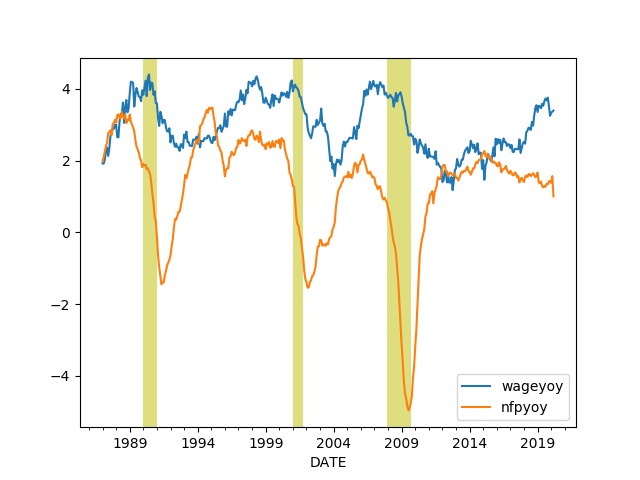
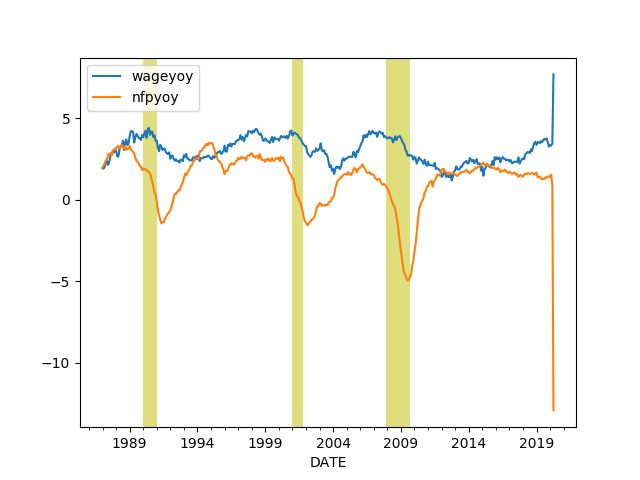
-

diff --git a/en/2019/05/stats.md b/en/2019/05/stats.md
@@ -145,10 +145,7 @@ DATE
 2020-03-01  1.539327
 ```
 
-
 ## Wages and Unemployment
-
-<a name="unemp"></a>
 
 ```python
 import pandas as pd, datetime
@@ -171,15 +168,15 @@ plt.savefig('nfp.png')
 ```
 
 ```text
-            PAYEMS    nfpyoy
-DATE                        
-2019-09-01  151368  1.352546
-2019-10-01  151553  1.340029
-2019-11-01  151814  1.423675
-2019-12-01  151998  1.423281
-2020-01-01  152212  1.384097
-2020-02-01  152487  1.566590
-2020-03-01  151786  1.000785
+            PAYEMS     nfpyoy
+DATE                         
+2019-10-01  151553   1.340029
+2019-11-01  151814   1.423675
+2019-12-01  151998   1.423281
+2020-01-01  152212   1.384097
+2020-02-01  152442   1.536617
+2020-03-01  151572   0.858386
+2020-04-01  131072 -12.904340
 ```
 
 ![](nfp.png)
@@ -191,34 +188,18 @@ from pandas_datareader import data
 
 start=datetime.datetime(1950, 1, 1)
 end=datetime.datetime(2019, 11, 1)
-cols = ['ECIWAG','CIVPART']
+cols = ['ECIWAG']
 df3 = data.DataReader(cols, 'fred', start, end)
 df3 = df3.dropna()
 df3['ECIWAG2'] = df3.shift(4).ECIWAG
 df3['wagegrowth'] = (df3.ECIWAG-df3.ECIWAG2) / df3.ECIWAG2 * 100.
 df3['unempl'] = 100.0 - df3.CIVPART
-print (df3['wagegrowth'].tail(7))
-plt.figure(figsize=(14, 5))
-plt.subplot(121)
-df3['wagegrowth'].plot(title='Wave Growth')
-plt.subplot(122)
-df3['unempl'].plot(title='Unemployment') 
-plt.savefig('unemploy.png')
+print (df3['wagegrowth'].tail(4))
+df3['wagegrowth'].plot(title='Wage Growth')
+plt.savefig('wages.png')
 ```
 
-```text
-DATE
-2018-04-01    2.945736
-2018-07-01    3.000000
-2018-10-01    3.134557
-2019-01-01    2.954545
-2019-04-01    2.936747
-2019-07-01    2.987304
-2019-10-01    2.965159
-Freq: 3MS, Name: wagegrowth, dtype: float64
-```
-
-![](unemploy.png)
+![](wages.png)
 
 <a name="claims"></a>
 
@@ -250,6 +231,40 @@ DATE
 ```
 
 ![](icsa.png)
+
+<a name="unempl"></a>
+
+## Unemployment (UnEmployment-to-Population Ratio)
+
+```python
+import pandas as pd, datetime
+from pandas_datareader import data
+
+today = datetime.datetime.now()
+start=datetime.datetime(1980, 1, 1)
+end=datetime.datetime(today.year, today.month, today.day)
+cols = ['CLF16OV','LFWA64TTUSM647S']
+df = data.DataReader(cols, 'fred', start, end)
+df = df.interpolate()
+df['ratio'] = 100.0 - ((df.CLF16OV*1000.0 / df.LFWA64TTUSM647S) * 100.0)
+print (df.tail(5))
+df.ratio.plot()
+plt.savefig('unemploy.png')
+```
+
+```text
+            CLF16OV    ...          ratio
+DATE                   ...               
+2019-12-01   164556    ...      20.288003
+2020-01-01   164606    ...      20.119110
+2020-02-01   164546    ...      20.156965
+2020-03-01   162913    ...      20.745325
+2020-04-01   156481    ...      23.874394
+
+[5 rows x 3 columns]
+```
+
+
 
 <a name="pmi"></a>
 
@@ -411,18 +426,18 @@ plt.savefig('pay-wage.png')
 
 ```text
 DATE
-2019-11-01    3.521739
 2019-12-01    3.248159
 2020-01-01    3.331891
-2020-02-01    3.363519
-2020-03-01    3.393471
+2020-02-01    3.320397
+2020-03-01    3.436426
+2020-04-01    7.672525
 Freq: MS, Name: wageyoy, dtype: float64
 DATE
-2019-11-01    1.423675
-2019-12-01    1.423281
-2020-01-01    1.384097
-2020-02-01    1.566590
-2020-03-01    1.000785
+2019-12-01     1.423281
+2020-01-01     1.384097
+2020-02-01     1.536617
+2020-03-01     0.858386
+2020-04-01   -12.904340
 Freq: MS, Name: nfpyoy, dtype: float64
 ```
 

diff --git a/en/2020/02/corona.md b/en/2020/02/corona.md
@@ -3,8 +3,8 @@
 ```python
 import util, pandas as pd
 
-bins = [0, 50, 100, 200, 1000, 2000, 10000, 100000, 800000, 1200000]
-colors = ["lightsalmon","salmon","lightcoral", "tomato","red",\
+bins = [0, 100, 200, 1000, 2000, 10000, 100000, 800000, 1200000]
+colors = ["lightsalmon","lightcoral", "tomato","red",\
 	  "indianred","firebrick","maroon","dimgray"]
 df, col_dict = util.retrieve_cor_data(bins,colors)
 df = df.sort_values(by='Confirmed',ascending=False)
